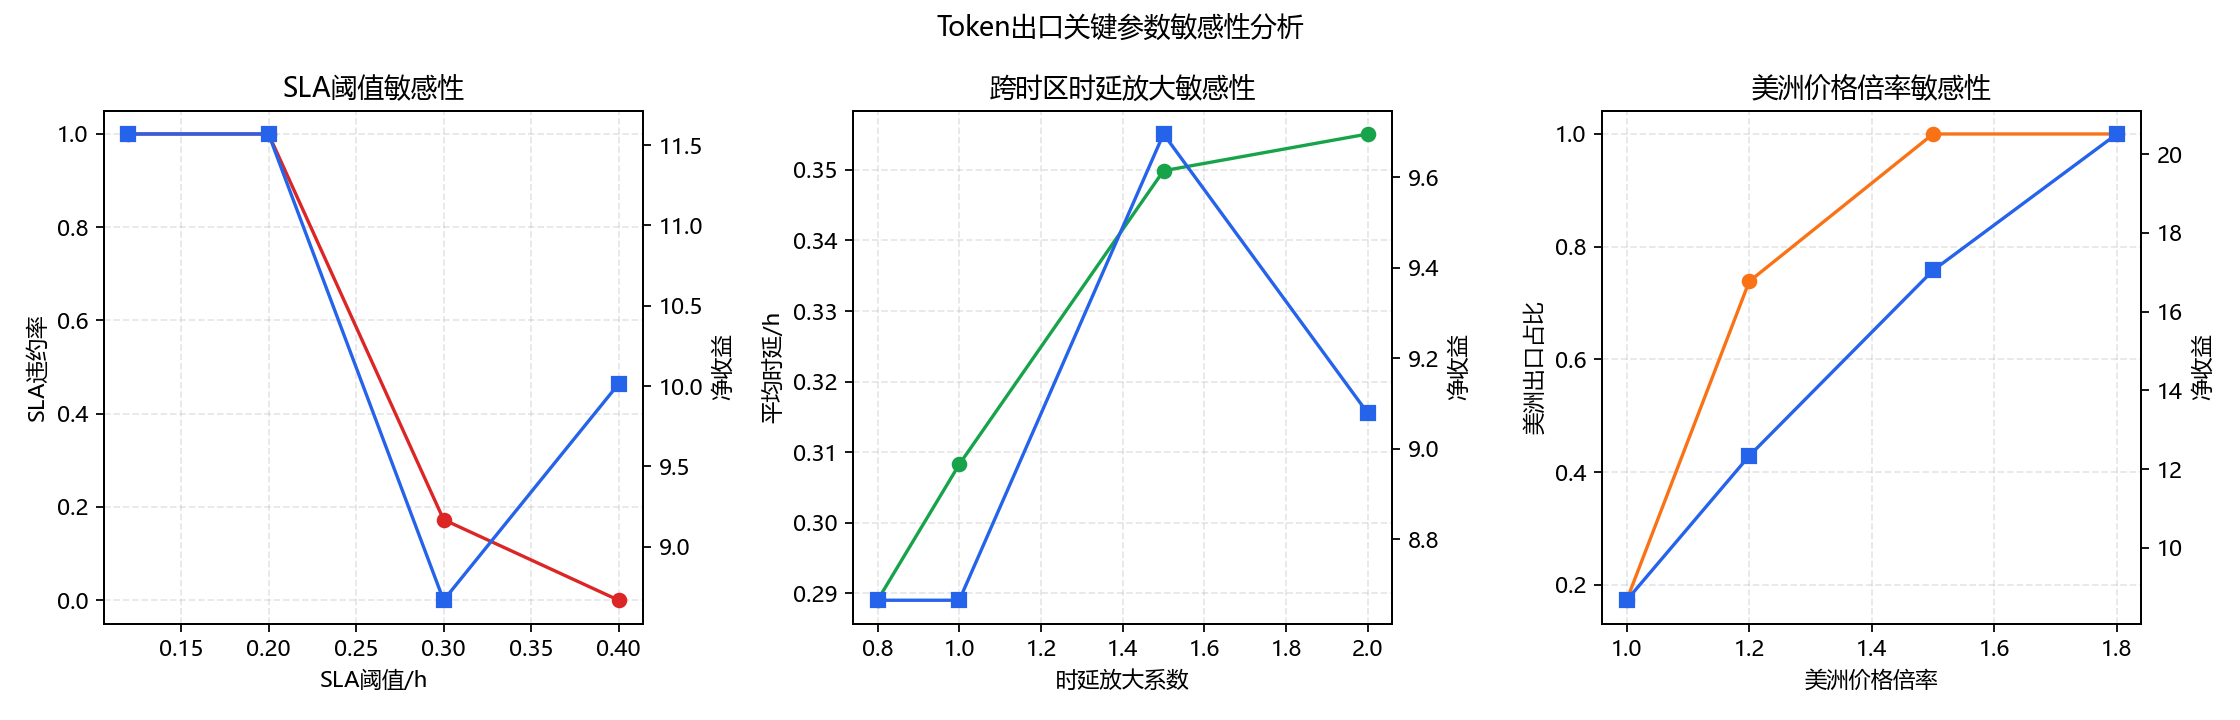
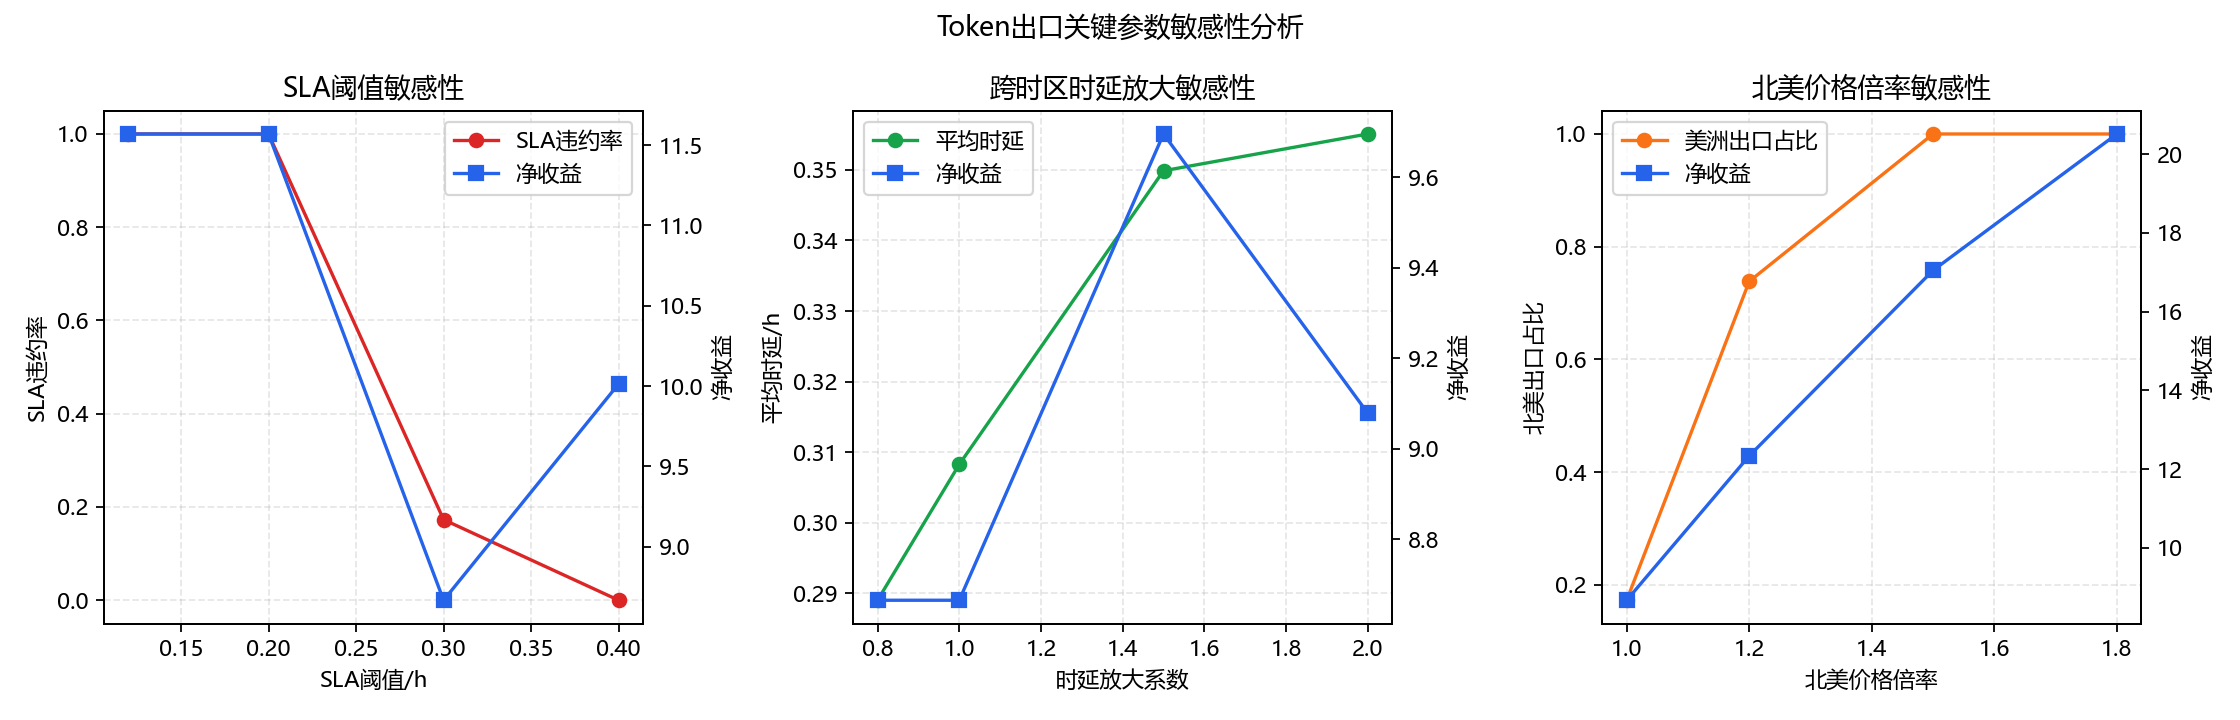
修改图例

diff --git a/experiments/exp_token_export.py b/experiments/exp_token_export.py
@@ -24,9 +24,9 @@ from utils.plotting import save_line_plot, save_multi_line_plot, setup_chinese_m
 
 
 REGION_COLUMNS = {
-    "Asia": "asia_export_tokens",
+    "Domestic": "domestic_export_tokens",
     "Europe": "europe_export_tokens",
-    "America": "america_export_tokens",
+    "NorthAmerica": "north_america_export_tokens",
 }
 
 def _plot_ready_summary(summary: pd.DataFrame) -> pd.DataFrame:
@@ -133,11 +133,11 @@ def _zero_alloc() -> dict[str, float]:
 def _shares_grid(step: float = 0.25) -> list[dict[str, float]]:
     values = np.arange(0.0, 1.0 + step / 2, step)
     shares: list[dict[str, float]] = []
-    for asia, europe in product(values, values):
-        america = 1.0 - float(asia) - float(europe)
-        if america < -1e-9:
+    for domestic, europe in product(values, values):
+        north_america = 1.0 - float(domestic) - float(europe)
+        if north_america < -1e-9:
             continue
-        shares.append({"Asia": float(asia), "Europe": float(europe), "America": max(0.0, float(america))})
+        shares.append({"Domestic": float(domestic), "Europe": float(europe), "NorthAmerica": max(0.0, float(north_america))})
     return shares
 
 
@@ -166,7 +166,7 @@ def _run_fixed_strategy(strategy: str, hourly: pd.DataFrame, config: dict) -> pd
             if should_export:
                 allocation[highest_price_region] = capacity * 0.75
         elif strategy == "Latency-Aware":
-            allocation = {"Asia": capacity * 0.55 * 0.80, "Europe": capacity * 0.55 * 0.15, "America": capacity * 0.55 * 0.05}
+            allocation = {"Domestic": capacity * 0.55 * 0.80, "Europe": capacity * 0.55 * 0.15, "NorthAmerica": capacity * 0.55 * 0.05}
         else:
             raise ValueError(f"Unknown fixed strategy: {strategy}")
         evaluated = _evaluate_hour(hour, row, allocation, config, previous_export)
@@ -229,9 +229,9 @@ def _summarize_strategy(hourly_result: pd.DataFrame) -> dict:
         "token_sla_violation_rate": sla,
         "energy_per_million_tokens": energy,
         "cost_per_million_tokens": safe_divide(energy_cost, total_million),
-        "asia_export_tokens": float(hourly_result["asia_export_tokens"].sum()),
+        "domestic_export_tokens": float(hourly_result["domestic_export_tokens"].sum()),
         "europe_export_tokens": float(hourly_result["europe_export_tokens"].sum()),
-        "america_export_tokens": float(hourly_result["america_export_tokens"].sum()),
+        "north_america_export_tokens": float(hourly_result["north_america_export_tokens"].sum()),
     }
 
 
@@ -270,10 +270,10 @@ def _run_sensitivity(hourly: pd.DataFrame, config: dict) -> pd.DataFrame:
                 "net_token_profit": summary["net_token_profit"],
                 "avg_cross_timezone_delay": summary["avg_cross_timezone_delay"],
                 "token_sla_violation_rate": summary["token_sla_violation_rate"],
-                "asia_export_tokens": summary["asia_export_tokens"],
+                "domestic_export_tokens": summary["domestic_export_tokens"],
                 "europe_export_tokens": summary["europe_export_tokens"],
-                "america_export_tokens": summary["america_export_tokens"],
-                "america_export_share": safe_divide(summary["america_export_tokens"], summary["total_export_tokens"]),
+                "north_america_export_tokens": summary["north_america_export_tokens"],
+                "north_america_export_share": safe_divide(summary["north_america_export_tokens"], summary["total_export_tokens"]),
             }
         )
 
@@ -288,11 +288,11 @@ def _run_sensitivity(hourly: pd.DataFrame, config: dict) -> pd.DataFrame:
             region_cfg["latency_hours"] = float(region_cfg["latency_hours"]) * scale
         collect("latency_scale", scale, cfg)
 
-    base_america_price = float(config["regions"]["America"]["price_per_million_tokens"])
+    base_north_america_price = float(config["regions"]["NorthAmerica"]["price_per_million_tokens"])
     for multiplier in [1.0, 1.2, 1.5, 1.8]:
         cfg = deepcopy(config)
-        cfg["regions"]["America"]["price_per_million_tokens"] = base_america_price * multiplier
-        collect("america_price_multiplier", multiplier, cfg)
+        cfg["regions"]["NorthAmerica"]["price_per_million_tokens"] = base_north_america_price * multiplier
+        collect("north_america_price_multiplier", multiplier, cfg)
 
     for window in [2, 4, 6]:
         cfg = deepcopy(config)
@@ -317,8 +317,8 @@ def _plot_region_export(region_results: pd.DataFrame, output_dir: Path) -> None:
     pivot = plot_df.pivot(index="strategy_label", columns="region", values="export_tokens").fillna(0.0) / 1_000_000.0
     fig, ax = plt.subplots(figsize=(9, 5))
     bottom = np.zeros(len(pivot))
-    colors = {"Asia": "#2563eb", "Europe": "#16a34a", "America": "#dc2626"}
-    for region in ["Asia", "Europe", "America"]:
+    colors = {"Domestic": "#2563eb", "Europe": "#16a34a", "NorthAmerica": "#dc2626"}
+    for region in ["Domestic", "Europe", "NorthAmerica"]:
         values = pivot[region].values if region in pivot.columns else np.zeros(len(pivot))
         ax.bar(pivot.index, values, bottom=bottom, label=REGION_LABELS[region], color=colors[region])
         bottom += values
@@ -361,7 +361,7 @@ def _plot_sensitivity(sensitivity: pd.DataFrame, output_dir: Path) -> None:
     fig, axes = plt.subplots(1, 3, figsize=(14, 4.5))
     sla = sensitivity[sensitivity["parameter"] == "base_token_sla_hours"]
     latency = sensitivity[sensitivity["parameter"] == "latency_scale"]
-    america = sensitivity[sensitivity["parameter"] == "america_price_multiplier"]
+    north_america = sensitivity[sensitivity["parameter"] == "north_america_price_multiplier"]
 
     ax0b = axes[0].twinx()
     axes[0].plot(sla["value"], sla["token_sla_violation_rate"], marker="o", color="#dc2626", label="SLA违约率")
@@ -371,6 +371,8 @@ def _plot_sensitivity(sensitivity: pd.DataFrame, output_dir: Path) -> None:
     axes[0].set_ylabel("SLA违约率")
     ax0b.set_ylabel("净收益")
     axes[0].grid(True, linestyle="--", alpha=0.3)
+    lines = axes[0].get_lines() + ax0b.get_lines()
+    axes[0].legend(lines, [line.get_label() for line in lines], loc="best")
 
     ax1b = axes[1].twinx()
     axes[1].plot(latency["value"], latency["avg_cross_timezone_delay"], marker="o", color="#16a34a", label="平均时延")
@@ -380,15 +382,19 @@ def _plot_sensitivity(sensitivity: pd.DataFrame, output_dir: Path) -> None:
     axes[1].set_ylabel("平均时延/h")
     ax1b.set_ylabel("净收益")
     axes[1].grid(True, linestyle="--", alpha=0.3)
+    lines = axes[1].get_lines() + ax1b.get_lines()
+    axes[1].legend(lines, [line.get_label() for line in lines], loc="best")
 
     ax2b = axes[2].twinx()
-    axes[2].plot(america["value"], america["america_export_share"], marker="o", color="#f97316", label="美洲占比")
-    ax2b.plot(america["value"], america["net_token_profit"], marker="s", color="#2563eb", label="净收益")
-    axes[2].set_title("美洲价格倍率敏感性")
-    axes[2].set_xlabel("美洲价格倍率")
-    axes[2].set_ylabel("美洲出口占比")
+    axes[2].plot(north_america["value"], north_america["north_america_export_share"], marker="o", color="#f97316", label="美洲出口占比")
+    ax2b.plot(north_america["value"], north_america["net_token_profit"], marker="s", color="#2563eb", label="净收益")
+    axes[2].set_title("北美价格倍率敏感性")
+    axes[2].set_xlabel("北美价格倍率")
+    axes[2].set_ylabel("北美出口占比")
     ax2b.set_ylabel("净收益")
     axes[2].grid(True, linestyle="--", alpha=0.3)
+    lines = axes[2].get_lines() + ax2b.get_lines()
+    axes[2].legend(lines, [line.get_label() for line in lines], loc="best")
 
     fig.suptitle("Token出口关键参数敏感性分析")
     fig.tight_layout()
@@ -450,19 +456,19 @@ def _plot_outputs(summary: pd.DataFrame, hourly_results: pd.DataFrame, region_re
     plt.close(fig)
 
     rh_alloc = hourly_results[hourly_results["strategy"] == "RH-TEO"][
-        ["hour", "asia_export_tokens", "europe_export_tokens", "america_export_tokens"]
+        ["hour", "domestic_export_tokens", "europe_export_tokens", "north_america_export_tokens"]
     ].copy()
-    for col in ["asia_export_tokens", "europe_export_tokens", "america_export_tokens"]:
+    for col in ["domestic_export_tokens", "europe_export_tokens", "north_america_export_tokens"]:
         rh_alloc[col] = rh_alloc[col] / 1_000_000.0
     save_multi_line_plot(
         rh_alloc,
         x="hour",
-        y_columns=["asia_export_tokens", "europe_export_tokens", "america_export_tokens"],
+        y_columns=["domestic_export_tokens", "europe_export_tokens", "north_america_export_tokens"],
         path=output_dir / "rh_teo_allocation_curve.png",
         title="RH-TEO策略下跨时区Token分配曲线",
         xlabel="小时",
         ylabel="出口Token量/百万",
-        labels={"asia_export_tokens": "亚洲", "europe_export_tokens": "欧洲", "america_export_tokens": "美洲"},
+        labels={"domestic_export_tokens": "国内", "europe_export_tokens": "欧洲", "north_america_export_tokens": "北美"},
     )
     _plot_sensitivity(sensitivity, output_dir)
 

diff --git a/utils/metrics.py b/utils/metrics.py
@@ -15,15 +15,15 @@ STRATEGY_VALUE_MAPPING = {
 }
 
 REGION_VALUE_MAPPING = {
-    "Asia": "亚洲",
+    "Domestic": "国内",
     "Europe": "欧洲",
-    "America": "美洲",
+    "NorthAmerica": "北美",
 }
 
 PARAMETER_VALUE_MAPPING = {
     "base_token_sla_hours": "SLA阈值",
     "latency_scale": "跨时区时延放大系数",
-    "america_price_multiplier": "美洲价格倍率",
+    "north_america_price_multiplier": "北美价格倍率",
     "window_size_hours": "滚动窗口长度",
     "token_per_margin_unit_factor": "Token产能系数",
 }
@@ -69,10 +69,10 @@ RESULT_CSV_COLUMN_MAPPING = {
     "token_sla_violation_rate": "Token SLA违约率",
     "energy_per_million_tokens": "百万Token能耗/kWh",
     "cost_per_million_tokens": "百万Token成本",
-    "asia_export_tokens": "亚洲出口Token量",
+    "domestic_export_tokens": "国内出口Token量",
     "europe_export_tokens": "欧洲出口Token量",
-    "america_export_tokens": "美洲出口Token量",
-    "america_export_share": "美洲出口占比",
+    "north_america_export_tokens": "北美出口Token量",
+    "north_america_export_share": "北美出口占比",
     "region": "地区",
     "share": "占比",
     "parameter": "参数",

diff --git a/README.md b/README.md
@@ -115,7 +115,9 @@ RH-TEO 表示 Rolling-Horizon Token Export Optimization，主流程为：
 token_capacity_t = power_margin_norm_t * token_per_margin_unit
 ```
 
-4. 对 Asia、Europe、America 三个跨时区出口区域进行滚动窗口分配，综合收益、电力成本、时延惩罚、SLA 惩罚和出口波动惩罚选择当前小时决策。
+4. 对国内、欧洲、北美三个 Token 服务场景进行滚动窗口分配，综合收益、电力成本、时延惩罚、SLA 惩罚和出口波动惩罚选择当前小时决策。
+
+本项目以中国数据中心为算力供给侧，构造国内本地需求、欧洲出口需求和北美出口需求三类 Token 服务场景。欧洲和北美区域参数为扩展场景假设，用于刻画跨境算力服务的价格与时延差异，并非 NBSDC 原始字段。
 
 项目实现了五类策略对比：
 
